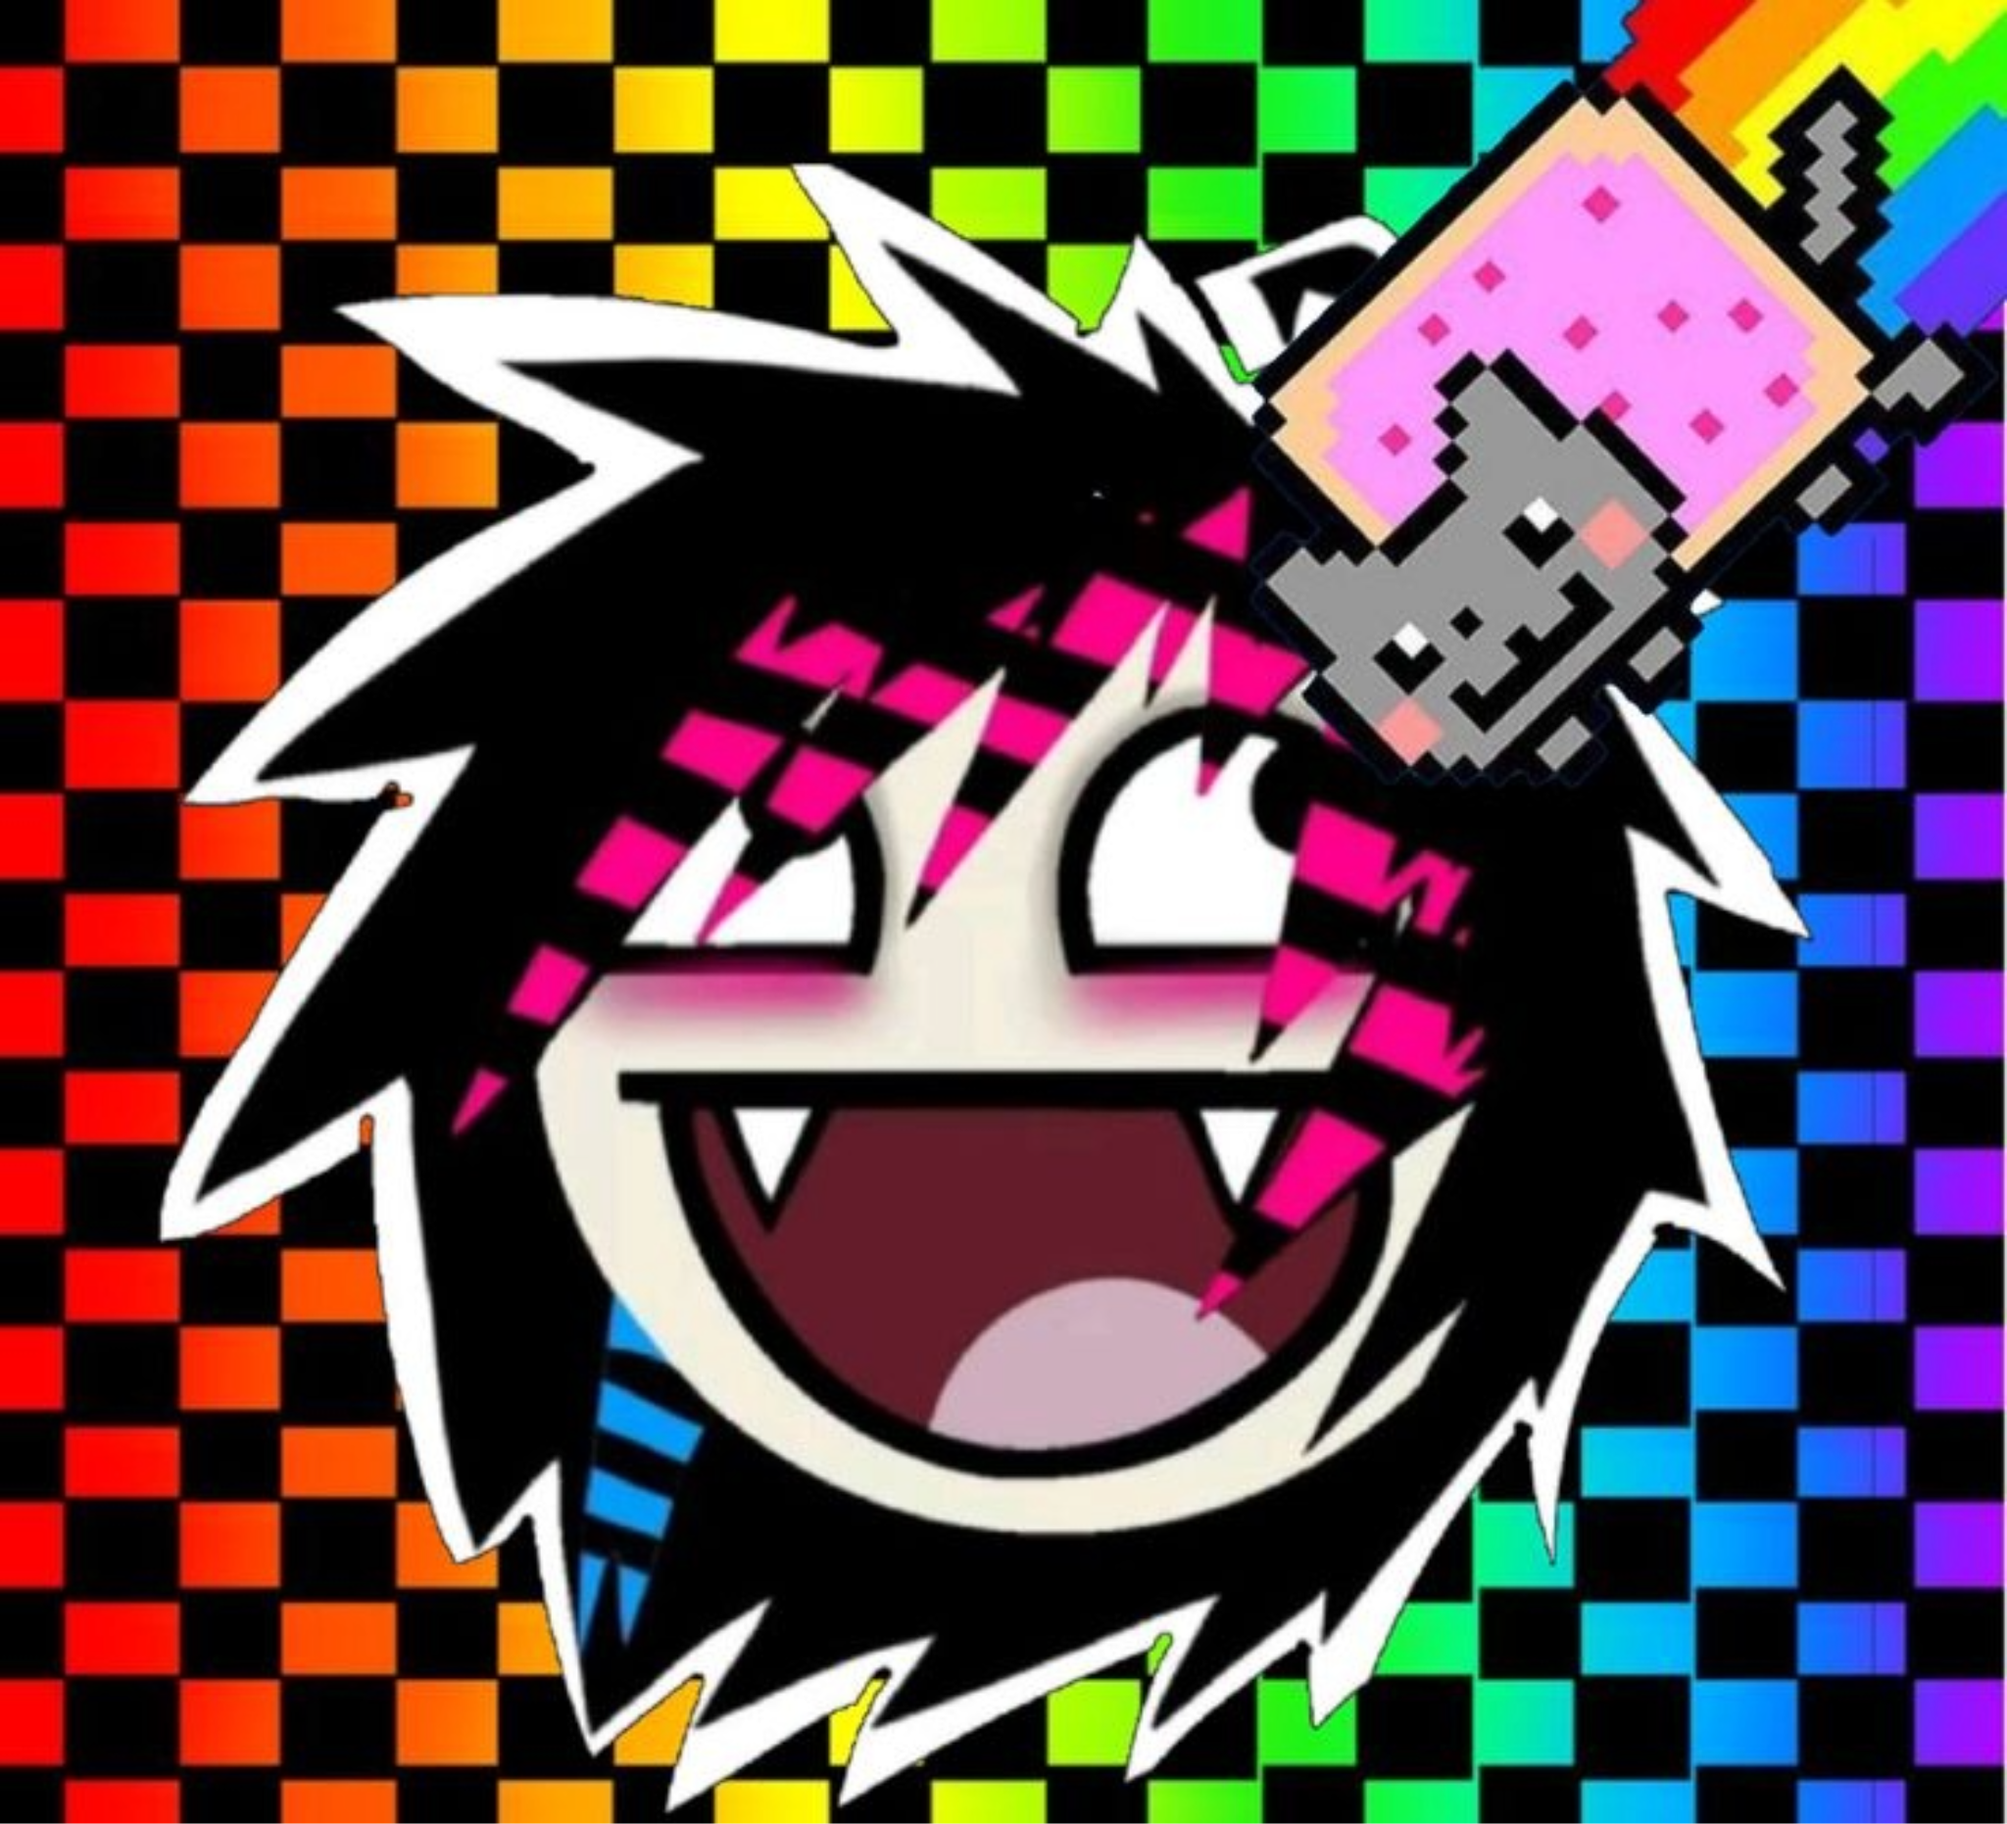
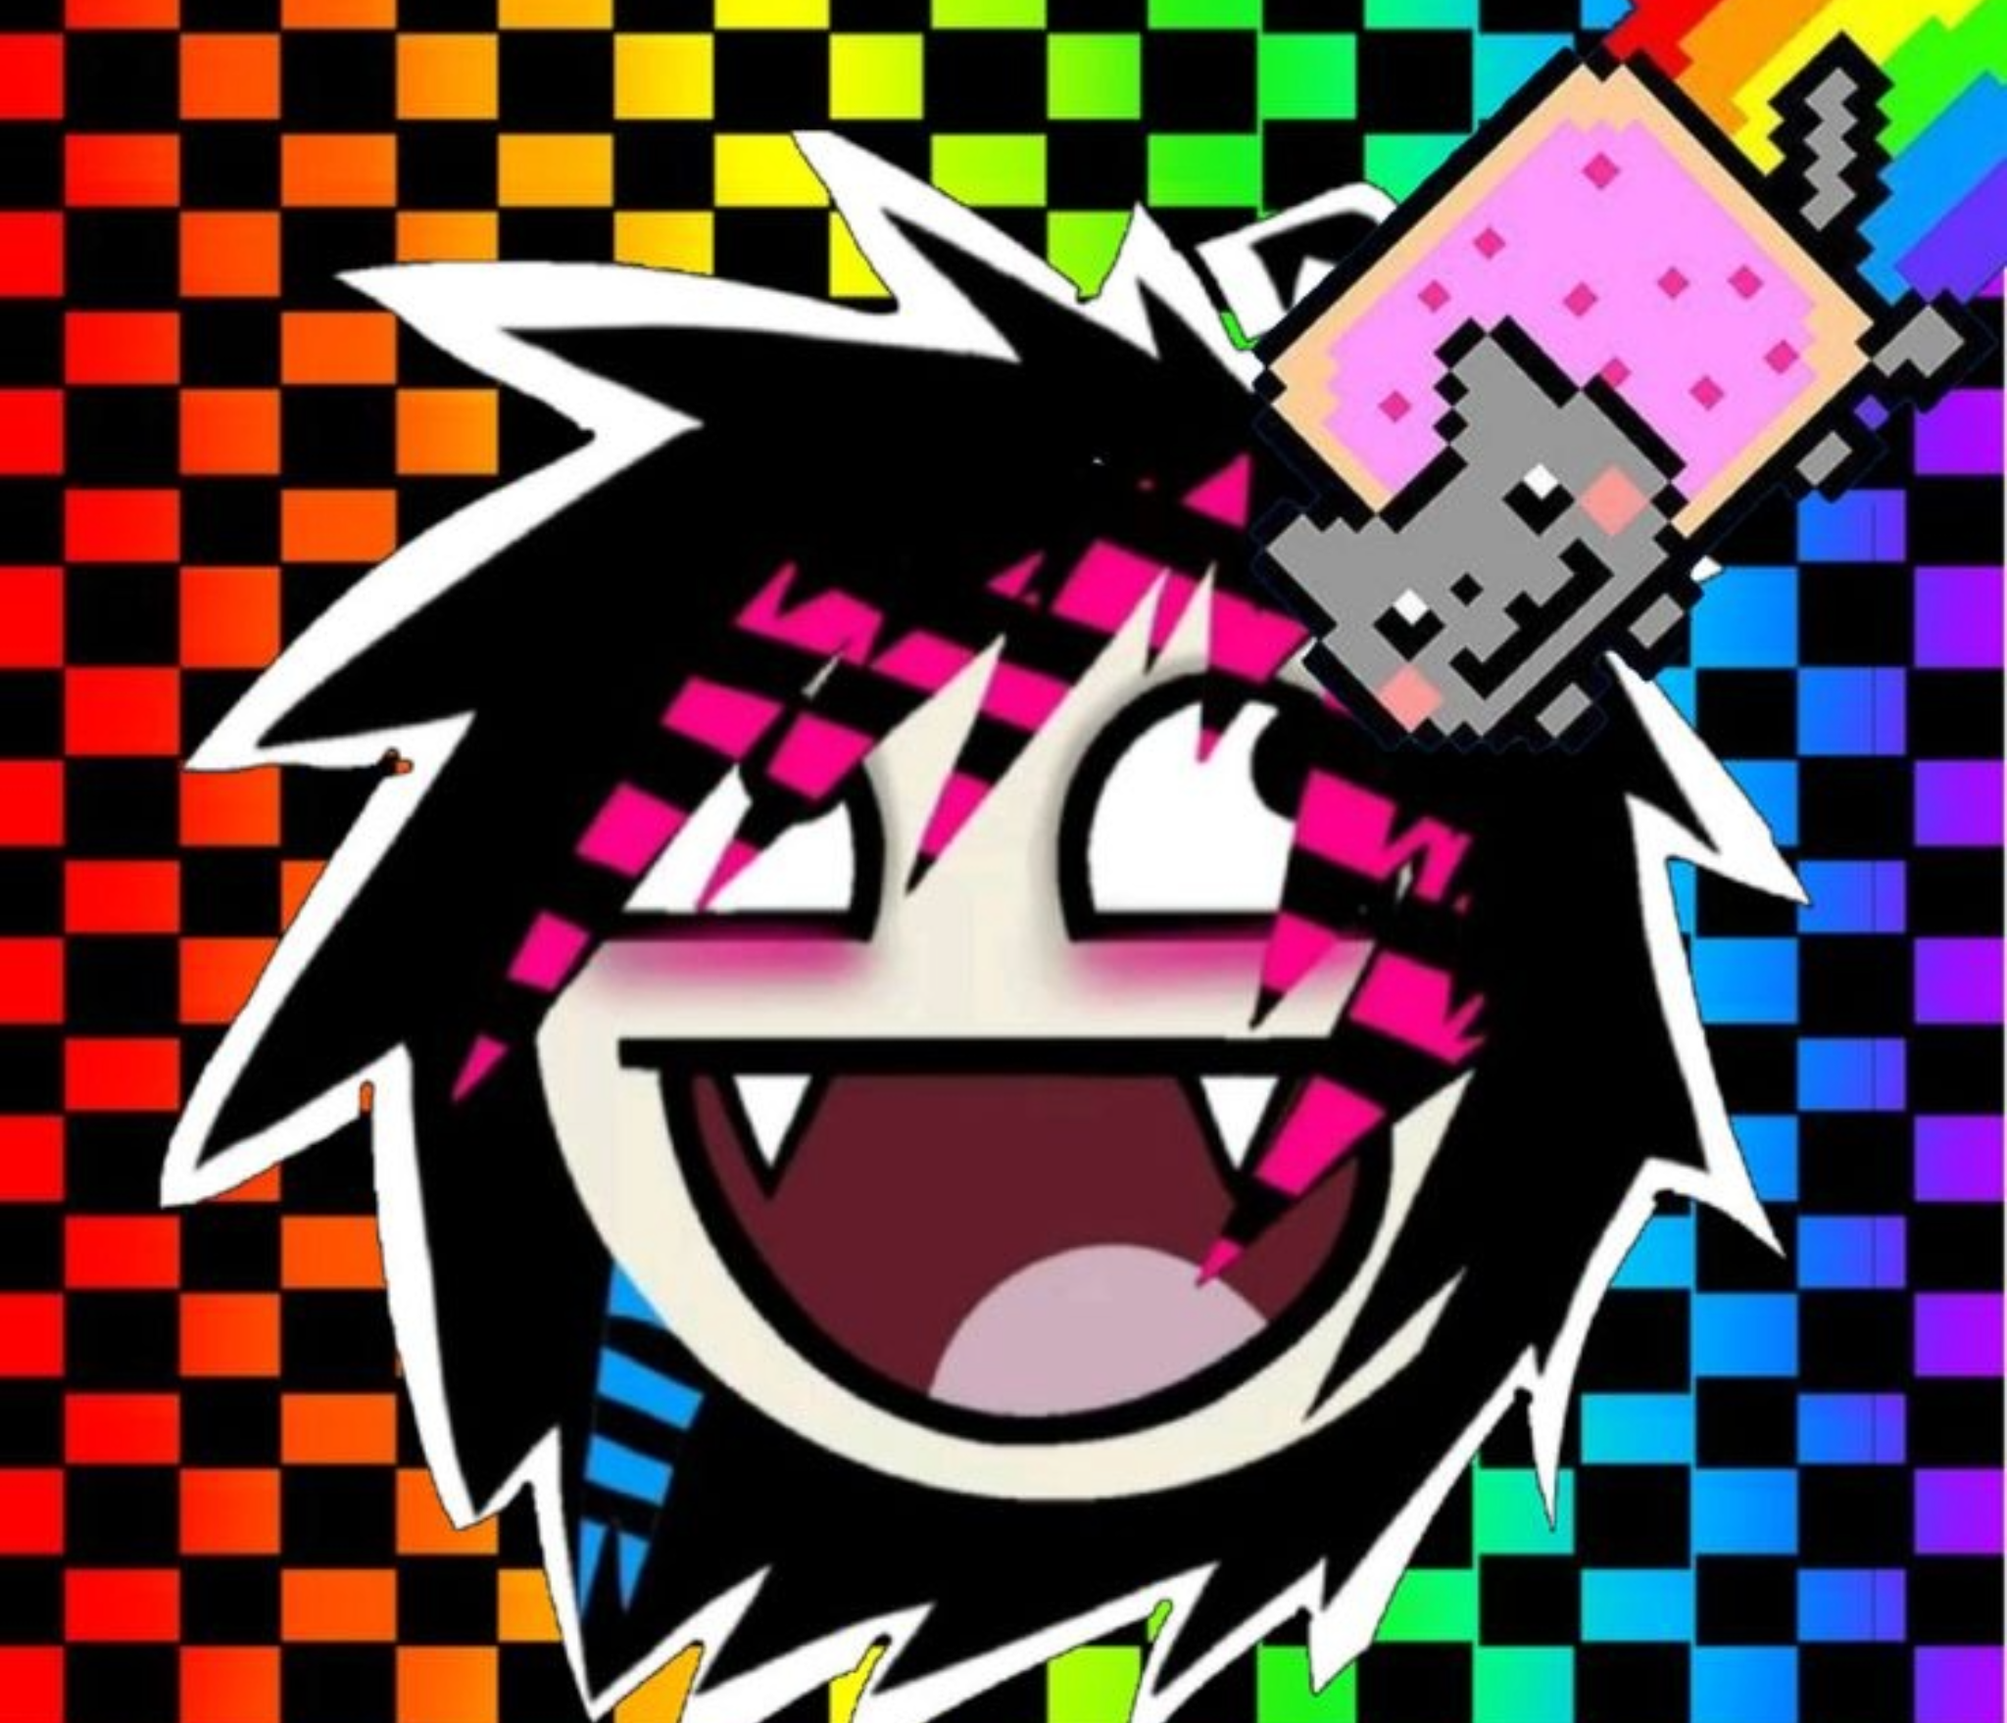
modified size of cover image.

diff --git a/style.css b/style.css
@@ -61,7 +61,7 @@ body {
 .cover-image {
   display: none;
   width: 100%;
-  max-height: 300px;
+  max-height: 250px;
   object-fit: cover;
   margin-top: 40px;
   margin-bottom: -5px;
